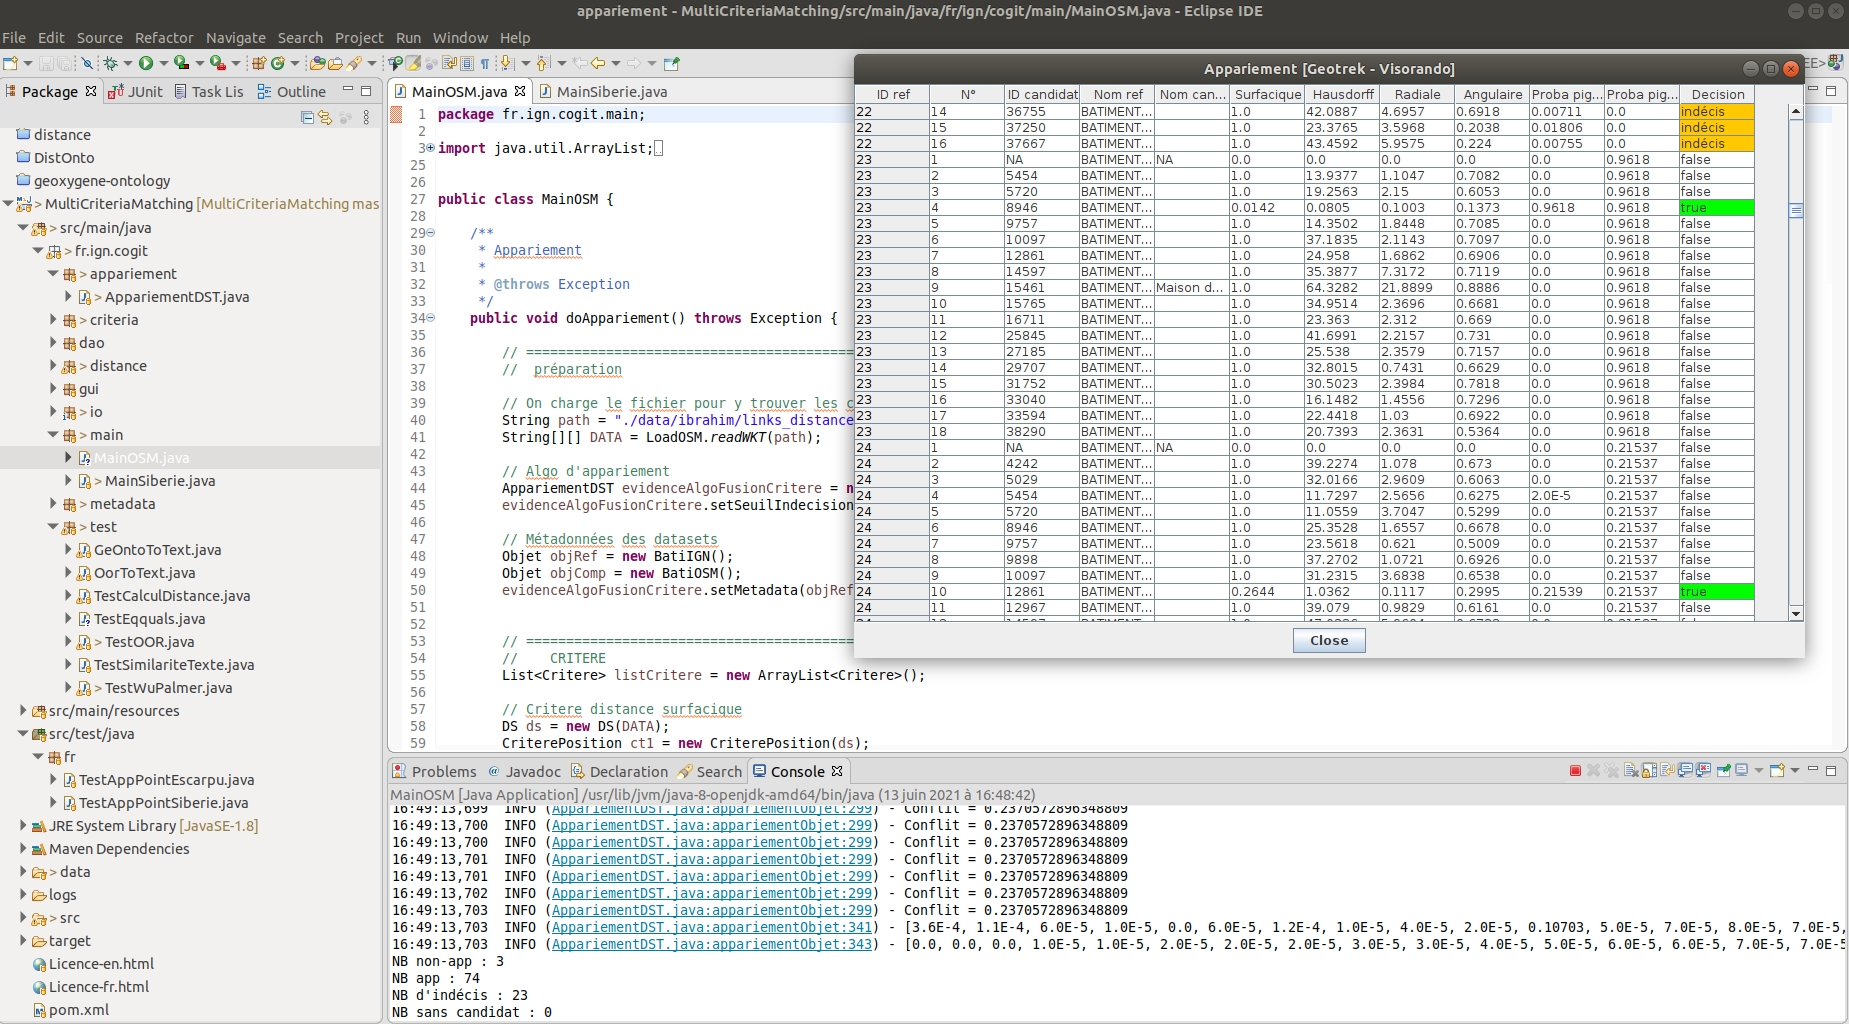
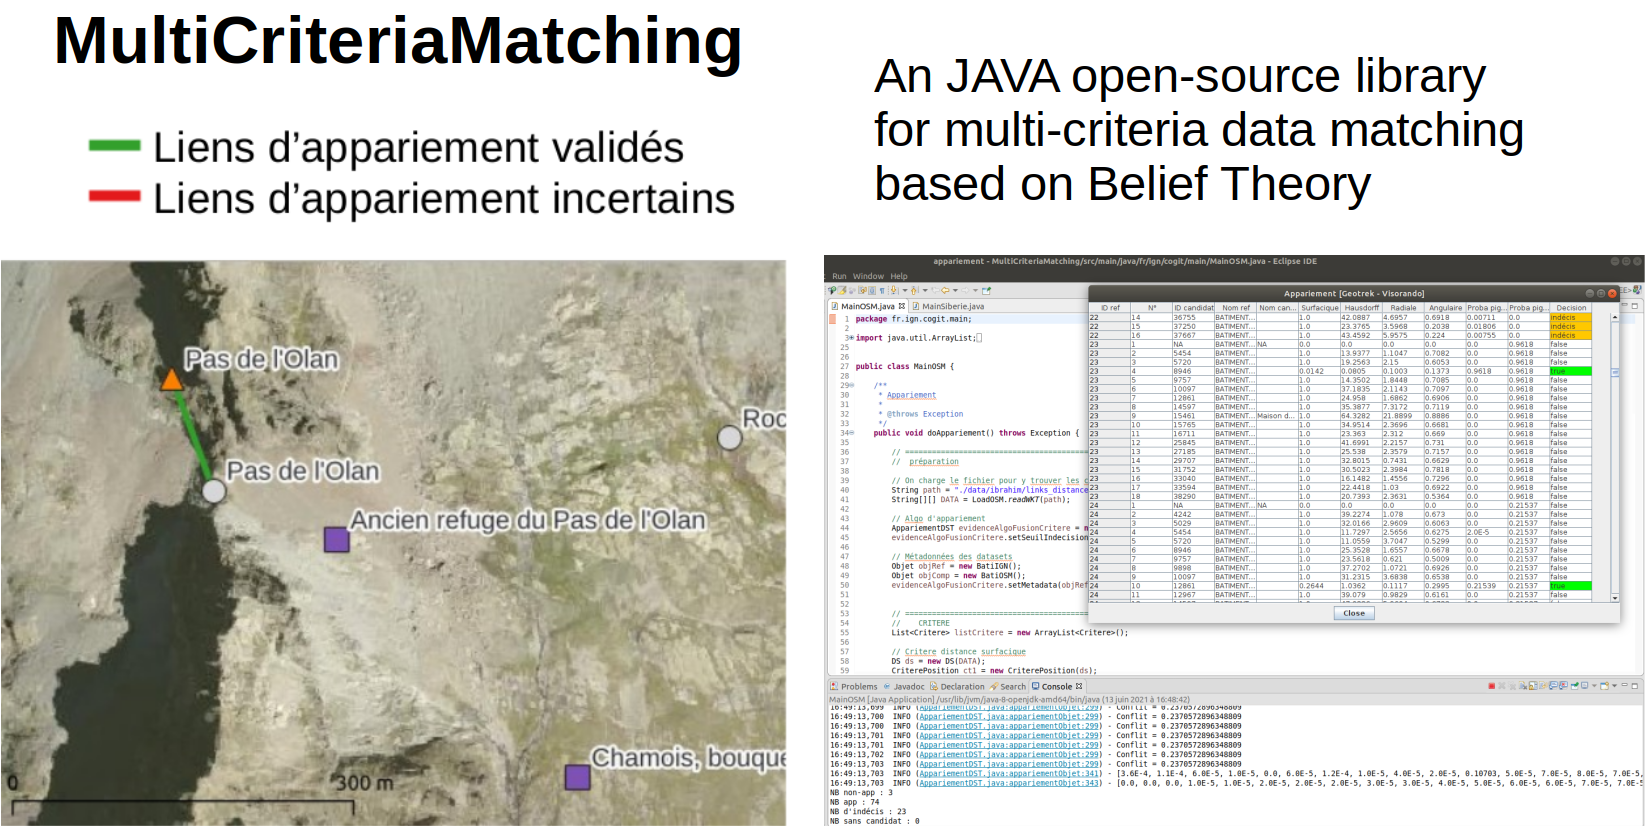
maj ma page

diff --git a/index.html b/index.html
@@ -1,5 +1,5 @@
 <!DOCTYPE html>
-<html lang="en">
+<html lang="fr">
 
 <head>
 
@@ -42,7 +42,6 @@
   <nav class="navbar navbar-expand-lg navbar-dark bg-primary fixed-top" id="sideNav">
     
     <select class="selectpicker" data-width="fit">
-      <option data-content='<span class="flag-icon flag-icon-us"></span>'>English</option>
       <option data-content='<span class="flag-icon flag-icon-fr"></span>'>Français</option>
     </select>
     
@@ -62,28 +61,22 @@
     <div class="collapse navbar-collapse" id="navbarSupportedContent">
       <ul class="navbar-nav">
         <li class="nav-item">
-          <a class="nav-link js-scroll-trigger lang-en" href="#about" style="color:#000;">Home</a>
-          <a class="nav-link js-scroll-trigger lang-fr" href="#about" style="color:#000;">Présentation</a>
+          <a class="nav-link js-scroll-trigger" href="#about" style="color:#000;">Présentation</a>
         </li>
         <li class="nav-item">
-          <a class="nav-link js-scroll-trigger lang-en" href="#interest" style="color:#000;">Research Works</a>
-          <a class="nav-link js-scroll-trigger lang-fr" href="#interest" style="color:#000;">Travaux de recherche</a>
+          <a class="nav-link js-scroll-trigger" href="#interest" style="color:#000;">Travaux de recherche</a>
         </li>
         <li class="nav-item">
-          <a class="nav-link js-scroll-trigger lang-en" href="#supervision" style="color:#000;">Supervision</a>
-          <a class="nav-link js-scroll-trigger lang-fr" href="#supervision" style="color:#000;">Encadrements</a>
+          <a class="nav-link js-scroll-trigger" href="#supervision" style="color:#000;">Encadrements</a>
         </li>
         <li class="nav-item">
-          <a class="nav-link js-scroll-trigger lang-en" href="#teaching" style="color:#000;">Teaching</a>
-          <a class="nav-link js-scroll-trigger lang-fr" href="#teaching" style="color:#000;">Enseignement</a>
+          <a class="nav-link js-scroll-trigger" href="#teaching" style="color:#000;">Enseignement</a>
         </li>
         <li class="nav-item">
-          <a class="nav-link js-scroll-trigger lang-en" href="#tools" style="color:#000;">Tools development</a>
-          <a class="nav-link js-scroll-trigger lang-fr" href="#tools" style="color:#000;">Développement d'outils</a>
+          <a class="nav-link js-scroll-trigger" href="#tools" style="color:#000;">Plateformes de recherche</a>
         </li>
         <li class="nav-item">
-          <a class="nav-link js-scroll-trigger lang-en" href="#publications" style="color:#000;">Publications</a>
-          <a class="nav-link js-scroll-trigger lang-fr" href="#publications" style="color:#000;">Publications</a>
+          <a class="nav-link js-scroll-trigger" href="#publications" style="color:#000;">Publications</a>
         </li>
       </ul>
     </div>
@@ -100,18 +93,7 @@
     <section class="resume-section p-3 p-lg-5 d-flex align-items-center" id="about">
       <div class="w-100">
         <h2 class="mb-0">Marie-Dominique Van Damme</h2>
-        <p class="lead mb-5 lang-en" style='padding:0px'>
-          <a>marie<!--anti@spam.fr!-->-dominique.van-damme (at) ensg.eu</a>
-          <br/><br/>
-          <span style='padding-right:8px'>Lecturer at the French National School of Geographic Sciences (ENSG), IGN’s School of Geomatics,</span>
-          <span style='padding-right:8px'><a href="https://www.ensg.eu"><img src='./img/logo_ensg_mini.png' height='45px' /></a></span>
-          <a href="https://www.univ-gustave-eiffel.fr/"><img src='./img/Logo_Université_Gustave_Eiffel_2020.svg' height='30px' /></a>
-          <br/>
-          <span>In charge of research and studies in <a href="https://www.umr-lastig.fr/meig/index.html">MEIG</a> research team </span>
-          <a href="https://www.umr-lastig.fr/meig/index.html"><img src='./img/logo_meig.png' height='45px'/></a>&nbsp;
-          &nbsp;<a href="https://www.umr-lastig.fr/"><img src='./img/logo_lastig.png' height='45px'/></a>
-        </p>
-        <p class="lead mb-5 lang-fr" style='padding:0px'>
+        <p class="lead mb-5" style='padding:0px'>
           <a>marie<!--anti@spam.fr!-->-dominique.vandamme@ign.fr</a>
           <br/><br/>
           <span style='padding-right:8px'>Enseignante à l'école nationale des sciences géographiques (ENSG-géomatique)</span>
@@ -158,14 +140,20 @@
           <a href="https://github.com/mdvandamme">
             <i class="fab fa-github"></i>
           </a>
-          <a href="https://www.researchgate.net/profile/Marie-Dominique-Van-Damme">
-            <i class="fab fa-researchgate"></i>
+          <a href="https://cv.hal.science/marie-dominique-vandamme">
+            <i class="ai"><img src="img/icons/hal-b2.svg" width=45px/></i>
           </a>
           <a href="http://orcid.org/0000-0002-0007-5972">
             <i class="ai ai-orcid"></i>
           </a>
-          <a href="https://www.umr-lastig.fr/mdvandamme/#">
-            <i class="ai ai-publons"></i>
+          <a href="https://scholar.google.fr/citations?user=L7yv4acAAAAJ">
+            <i class="ai ai-google-scholar"></i>
+          </a> 
+          <a href="https://www.linkedin.com/in/marie-dominique-van-damme-b25746145/">
+            <i class="fab fa-linkedin"></i>
+          </a>
+          <a href="https://www.researchgate.net/profile/Marie-Dominique-Van-Damme">
+            <i class="fab fa-researchgate"></i>
           </a>
       </div></p>
     
@@ -180,8 +168,7 @@
     <!-- ==============================================================================================================================   -->
     <section class="resume-section p-3 p-lg-5 d-flex justify-content-center" id="interest">
       <div class="w-100">
-        <h2 class="mb-5 lang-en">Research Works</h2>
-        <h2 class="mb-5 lang-fr">Travaux de recherche</h2>
+        <h2 class="mb-5">Travaux de recherche</h2>
 
         <p style='padding:0px'>
           <b>Intégration sémantique de données géographiques hétérogènes</b>
@@ -194,8 +181,7 @@
                   <img class="img-fluid" src="img/interest_lauvitel.png" alt="" />
                   <div class="portfolio-desc d-flex align-center position-absolute h-100 w-100">
                     <div class="folio-info my-auto w-100 text-center">
-                      <h5 class="lang-en">Appariement de données</h5>
-                      <h5 class="lang-fr">Appariement de données</h5>
+                      <h5 class="">Appariement de données</h5>
                       <p class="description" style="font-size:13pt">
                         Appariemment des données issues du web afin de déterminer leurs bien-fondés dans le contexte du sauvetage en montagne.
                         <br/><br/>
@@ -213,8 +199,7 @@
                   <img class="img-fluid" src="img/AgileMD.png" alt="" />
                   <div class="portfolio-desc d-flex align-center position-absolute h-100 w-100">
                     <div class="folio-info my-auto w-100 text-center">
-                      <h5 class="lang-en">Intégration sémantique multisources d'objets de repère</h5>
-                      <h5 class="lang-fr">Intégration sémantique multisources d'objets de repère</h5>
+                      <h5 class="">Intégration sémantique multisources d'objets de repère</h5>
                       <p class="description" style="font-size:13pt">
                         Constitution de métadonnées descriptives et évaluant la qualité de jeux de données.
                         <br/><br/>
@@ -301,8 +286,7 @@
     <!-- ==============================================================================================================================   -->
     <section class="resume-section p-3 p-lg-5 d-flex justify-content-center" id="supervision">
       <div class="w-100">
-        <h2 class="mb-5 lang-en">Supervision</h2>
-        <h2 class="mb-5 lang-fr">Encadrements</h2>
+        <h2 class="mb-5">Encadrements</h2>
 
         <p style='padding:0px'>
           <b>PhD</b>
@@ -356,10 +340,9 @@
     <!-- ==============================================================================================================================   -->
     <section class="resume-section p-3 p-lg-5 d-flex align-items-center" id="teaching">
       <div class="w-100">
-        <h2 class="mb-5 lang-en">Teaching at ENSG</h2>
-        <h2 class="mb-5 lang-fr">Enseignement à l'ENSG</h2>
+        <h2 class="mb-5">Enseignement à l'ENSG</h2>
 
-        <div class="subheading mb-3 mt-3 lang-en">RESPONSABILITE PEDAGOGIQUE</div>
+        <div class="subheading mb-3 mt-3">RESPONSABILITE PEDAGOGIQUE</div>
         <p style='padding:0px'>
           <b>Responsable pédagogique du Master Géométique 1ère année de l'Université Gustave Eiffel</b>
           <div>Août 2019 à mars 2025. Co-responsable avec Bénédicte Fruneau depuis septembre 2024.</div>
@@ -368,7 +351,7 @@
 
         <br/>
 
-        <div class="subheading mb-3 mt-3 lang-en">COURS</div>
+        <div class="subheading mb-3 mt-3">COURS</div>
         <p style='padding:0px'>
           <b>Cours issus de mes travaux et thématiques de recherche</b>
           <ol style='list-style-type:circle;font-size: 1.15rem;font-weight:400;'>
@@ -426,7 +409,7 @@
 
       <br/>
        
-       <div class="subheading mb-3 mt-3 lang-en">PROJETS</div>
+       <div class="subheading mb-3 mt-3">PROJETS</div>
        <p style='padding:0px;text-align:justify'>
          <b>Encadrement de projets d'étudiants</b>
           <ol style='list-style-type:circle;font-size: 1.15rem;font-weight:400;text-align:justify'>
@@ -524,14 +507,24 @@
     <!-- ==============================================================================================================================   -->
      <section class="resume-section p-3 p-lg-5 d-flex align-items-center" id="tools">
       <div class="w-100">
-        <h2 class="mb-5 lang-en">Plateformes de recherche</h2>
-        <h2 class="mb-5 lang-fr">Plateformes de recherche</h2>
+        <h2 class="mb-5">Plateformes de recherche</h2>
         
         <hr class="star-dark mb-5">
         <div class="row">
-          
+          <article class="col-md-10 col-lg-5" style='padding:16px'>
+            <div class="portfolio-item d-block mx-auto">
+                  <img class="img-fluid" src="img/footprint2graph.png" alt="" />
+                  <div class="portfolio-desc d-flex align-center position-absolute h-100 w-100">
+                    <div class="folio-info my-auto w-100 text-center">
+                      <h5 style='text-transform: none;'>Footprint2Graph</h5>
+                      <p class="description" style="font-size:13pt">footprint2graph: An Open-Source Python Pipeline for Generating Mobility Networks from GNSS Trajectories<br/><br/>
+                        <a href='https://github.com/umrlastig/footprint2graph'>https://github.com/umrlastig/footprint2graph</a></p>
+                    </div>
+                  </div>
+            </div>
+          </article>
           <article class="col-md-10 col-lg-6" style='padding:16px'>
-                <div class="portfolio-item d-block mx-auto">
+            <div class="portfolio-item d-block mx-auto">
                   <img class="img-fluid" src="img/Tracklib.png" alt="" />
                   <div class="portfolio-desc d-flex align-center position-absolute h-100 w-100">
                     <div class="folio-info my-auto w-100 text-center">
@@ -541,9 +534,12 @@
                         <a href='https://github.com/umrlastig/tracklib'>https://github.com/umrlastig/tracklib</a></p>
                     </div>
                   </div>
-                </div>
+            </div>
           </article>
-			<article class="col-md-10 col-lg-5" style='padding:16px'>
+
+          <br/>
+
+          <article class="col-md-10 col-lg-5" style='padding:16px'>
                 <div class="portfolio-item d-block mx-auto">
                   <img class="img-fluid" src="img/api_landsense.png" width='400px' alt="" />
                   <div class="portfolio-desc d-flex align-center position-absolute h-100 w-100">
@@ -567,48 +563,22 @@
                       <h5 style='text-transform: none;'>MultiCriteriaMatching</h5>
                       <p class="description" style="font-size:13pt">A java open source library which implements multi-criteria 
                         data-matching algorithm based on Belief Theory<br/><br/>
-                        <a href='https://github.com/IGNF/MultiCriteriaMatching'>https://github.com/IGNF/MultiCriteriaMatching</a></p>
+                        <a href='https://github.com/umrlastig/MultiCriteriaMatching'>https://github.com/umrlastig/MultiCriteriaMatching</a></p>
                     </div>
                   </div>
                 </div>
           </article>
-			<br/>
-          <article class="col-md-10 col-lg-6" style='padding:16px'>
+			    
+          
+          
+          <article class="col-md-10 col-lg-5" style='padding:16px'>
                 <div class="portfolio-item d-block mx-auto">
-                  <img class="img-fluid" src="img/PlugInVisuMatchingMultiCrit2.png" alt="" />
+                  <img class="img-fluid" src="img/pluginqgis.png" alt="" />
                   <div class="portfolio-desc d-flex align-center position-absolute h-100 w-100">
                     <div class="folio-info my-auto w-100 text-center">
-                      <h5 style='text-transform: none;'>VisuValideMultiCriteriaMatching</h5>
-                      <p class="description" style="font-size:13pt">Plugin de visualisation des résultats d'appariement multi-critères pour le logiciel QGIS<br/><br/>
-                        <a href='https://github.com/mdvandamme/VisuValideMultiCriteriaMatching'>dépôt github</a></p>
-                    </div>
-                  </div>
-                </div>
-          </article>
-          <!--
-          <article class="col-md-10 col-lg-6">
-                <div class="portfolio-item d-block mx-auto">
-                  <div style='padding-top:50px;padding-bottom:50px'><img class="img-fluid" src="img/geoxygene.png" style='vertical-align:middle' alt="" /></div>
-                  <div class="portfolio-desc d-flex align-center position-absolute h-100 w-100">
-                    <div class="folio-info my-auto w-100 text-center">
-                      <h5 style='text-transform: none;'>GeOxygene an java open framework for the development and deployment of geographic applications</h5>
-                      <p class="description" style="font-size:13pt">
-                      <a href='http://ignf.github.io/geoxygene/'>http://ignf.github.io/geoxygene/</a>
-                      </p>
-                    </div>
-                  </div>
-                </div>
-          </article>
-        -->
-          <article class="col-md-10 col-lg-6" style='padding:16px'>
-                <div class="portfolio-item d-block mx-auto">
-                  <img class="img-fluid" src="img/PoussePousseEditData.png" alt="" />
-                  <div class="portfolio-desc d-flex align-center position-absolute h-100 w-100">
-                    <div class="folio-info my-auto w-100 text-center">
-                      <h5>PoussePousseEditData</h5>
-                      <p class="description" style="font-size:13pt">PlugIn QGis de création et de contrôle de jeu de données géographiques 
-                        d'une vérité terrain sur fond cartographique.<br/><br/>
-                        <a href='https://github.com/mdvandamme/PoussePousseEditData'>dépôt github</a></p>
+                      <!-- <h5 style='text-transform: none;'>VisuValideMultiCriteriaMatching & PoussePousseEditData</h5> -->
+                      <p class="description" style="font-size:13pt">PlugIn QGIS pour doctorants puis dans l’enseignement<br/><br/>
+                        <a href='https://github.com/mdvandamme/VisuValideMultiCriteriaMatching'>Github VisuValideMultiCriteriaMatching</a><br/><a href='https://github.com/mdvandamme/PoussePousseEditData'>Github PoussePousseEditData</a></p>
                     </div>
                   </div>
                 </div>
@@ -643,8 +613,7 @@
     <!-- ==============================================================================================================================   -->
      <section class="resume-section p-3 p-lg-5 d-flex align-items-center" id="publications">
       <div class="w-100">
-        <h2 class="mb-5 lang-en">Publications</h2>
-        <h2 class="mb-5 lang-fr">Publications</h2>
+        <h2 class="mb-5">Publications</h2>
 
         <div class="subheading mb-3 mt-3">Articles dans une revue à comité de lecture</div>
         <ul style="padding:2px;padding-left: 20px;">
@@ -778,7 +747,7 @@
               <iframe width="560" height="315" src="https://www.youtube.com/embed/boreZ0Q5a_I" title="Intégration sémantique multisources d'objets de repère" 
 					  frameborder="0" allow="accelerometer; autoplay; clipboard-write; encrypted-media; gyroscope; picture-in-picture; web-share" 
 					  allowfullscreen></iframe>
-              <p class="lang-en">Présentation à la journée de la recherche de l'Université Gustave Eiffel - IGN - ENSG Géomatique, 31 mars 2022.<br>
+              <p class="">Présentation à la journée de la recherche de l'Université Gustave Eiffel - IGN - ENSG Géomatique, 31 mars 2022.<br>
                   Maturité de la donnée: intégration sémantique multisources d'objets de repère pour un référentiel métier dédié  au secours en montagne.</p>
         </div></li>
 
